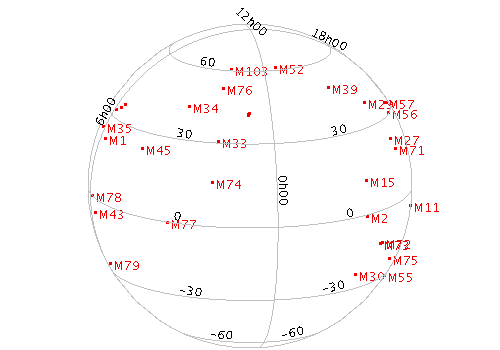
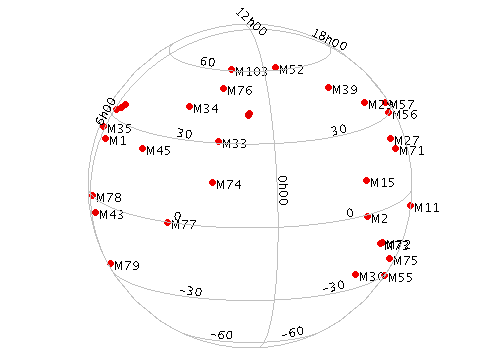
ttools: adjust layer-label example plot
Make the points bigger and colour the labels black.
Just an aesthetic improvement.

diff --git a/ttools/src/main/uk/ac/starlink/ttools/build/Plot2Example.java b/ttools/src/main/uk/ac/starlink/ttools/build/Plot2Example.java
@@ -1059,8 +1059,9 @@ public class Plot2Example {
                 "layer1=mark", "*layer2=linearfit",
             } ),
             new Plot2Example( "layer-label", c, PlotTask.SKY, new String[] {
-                "*in=" + TName.MESSIER, "*lon=RA", "*lat=DEC",
-                "layer1=mark", "*layer2=label", "*label2=NAME",
+                "*in=" + TName.MESSIER, "*lon=RA", "*lat=DEC", null,
+                "layer1=mark", "size1=3", null,
+                "*layer2=label", "*label2=NAME", "*color2=black",
             } ),
             new Plot2Example( "layer-contour", c, PlotTask.PLANE, new String[] {
                 "*in=" + TName.TGAS,
